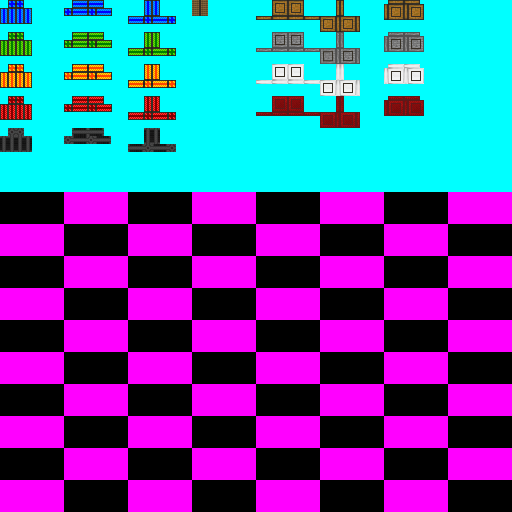
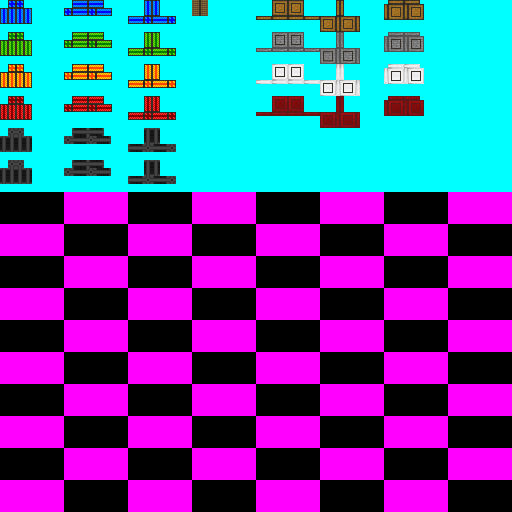
added special heat stage for creative engine

Changed region(s): [[0.25, 0.3125, 0.3438, 0.375], [0.0, 0.3125, 0.0625, 0.375], [0.125, 0.3125, 0.2188, 0.3438]]

diff --git a/src/dev/core/engine/abstract/BCEngineTileEntity.ts b/src/dev/core/engine/abstract/BCEngineTileEntity.ts
@@ -13,7 +13,7 @@ abstract class BCEngineTileEntity implements IHeatable, IEngine {
 
     protected progressPart: number = 0;
 
-    private isPumping: boolean = false; // Used for SMP synch // ?WTF is SMP
+    protected isPumping: boolean = false; // Used for SMP synch // ?WTF is SMP
     // How many ticks ago it gave out power, capped to 4.
     private lastTick: number = 0;
 
@@ -79,6 +79,7 @@ abstract class BCEngineTileEntity implements IHeatable, IEngine {
 
     // !TileEntity event
     public tick(){
+        Debug.m("tick");
         if (this.lastTick < 4) this.lastTick++;
 
         this.engineAnimation.update(this.data.progress, this.getEnergyStage());
@@ -101,7 +102,7 @@ abstract class BCEngineTileEntity implements IHeatable, IEngine {
 
         this.updateHeat();
 
-        if (this.getEnergyStage() === EngineHeat.BLACK){
+        if (this.getEnergyStage() === EngineHeat.OVERHEAT){
             this.data.energy = Math.max(this.data.energy - 50, 0);
             return;
         }
@@ -111,15 +112,20 @@ abstract class BCEngineTileEntity implements IHeatable, IEngine {
         const tile = this.getEnergyProvider(this.orientation);
 
         if (this.progressPart != 0) {
+            Debug.m(`part != 0`);
             this.data.progress += this.getPistonSpeed();
             if (this.data.progress > 0.5 && this.progressPart == 1) {
                 this.progressPart = 2;
+                Debug.m(`part to 2`);
             } else if (this.data.progress >= 1) {
                 this.data.progress = 0;
                 this.progressPart = 0;
+                Debug.m(`part to 0`);
             }
         } else if (this.isRedstonePowered && this.isActive()) {
+            Debug.m(`red powered`);
             if (this.isPoweredTile(tile, this.orientation)) {
+                Debug.m(`part to 1`);
                 this.progressPart = 1;
                 this.pumping = true;
                 if (this.getPowerToExtract() > 0) {
@@ -142,11 +148,12 @@ abstract class BCEngineTileEntity implements IHeatable, IEngine {
         } else if (this.isRedstonePowered && this.isActive()) {
             this.sendPower();
         }
+        Debug.m("end tick");
     }
 
     public click(id, count, data) {
         if(id != ItemID.bcWrench) return false;
-        if (this.getEnergyStage() == EngineHeat.BLACK) {
+        if (this.getEnergyStage() == EngineHeat.OVERHEAT) {
             this.energyStage = this.computeEnergyStage();
             // sendNetworkUpdate(); // ? again networking!
         }
@@ -257,12 +264,12 @@ abstract class BCEngineTileEntity implements IHeatable, IEngine {
 
     public getEnergyStage(): EngineHeat {
         // if (!worldObj.isRemote) { //? client-server
-            if (this.energyStage == EngineHeat.BLACK) return this.energyStage;
+            if (this.energyStage == EngineHeat.OVERHEAT) return this.energyStage;
 
             const newStage = this.computeEnergyStage();
             if (this.energyStage !== newStage) {
                 this.energyStage = newStage;
-                if (this.energyStage === EngineHeat.BLACK) this.overheat();
+                if (this.energyStage === EngineHeat.OVERHEAT) this.overheat();
                 // sendNetworkUpdate(); //? client-server
             }
         // }
@@ -270,7 +277,7 @@ abstract class BCEngineTileEntity implements IHeatable, IEngine {
     }
 
     public addEnergy(addition: number): void {
-        if (this.getEnergyStage() == EngineHeat.BLACK) return;
+        if (this.getEnergyStage() == EngineHeat.OVERHEAT) return;
 
         this.data.energy += addition;
         if (this.data.energy > this.getMaxEnergy()) {
@@ -289,7 +296,7 @@ abstract class BCEngineTileEntity implements IHeatable, IEngine {
         } else if (energyLevel < 1) {
             return EngineHeat.RED;
         }
-        return EngineHeat.BLACK;
+        return EngineHeat.OVERHEAT;
     }
 
     public getEnergyStored(): number {

diff --git a/src/dev/core/engine/creative/CreativeEngineTileEntity.ts b/src/dev/core/engine/creative/CreativeEngineTileEntity.ts
@@ -7,9 +7,11 @@ class BCCreativeEngineTileEntity extends BCEngineTileEntity {
         super(texture);
         this.defaultValues.powerMode = PowerMode.M2;
     }
+
     // !TileEntity event
     public init(){
         super.init();
+        Debug.m(Object.keys(this));
     }
 
     public click(id: number, count: number, data: number) {
@@ -20,11 +22,12 @@ class BCCreativeEngineTileEntity extends BCEngineTileEntity {
             Debug.m(`current mode ${this.data.powerMode}`);
             let currentModeIndex = PowerModeOrder.indexOf(this.data.powerMode);
             this.data.powerMode = PowerModeOrder[++currentModeIndex % PowerModeOrder.length];
-            Debug.m(`new mode ${this.data.powerMode}`);
+            Debug.m(`new mode ${this.data.powerMode} and speed ${this.getPistonSpeed()}`);
             return true;
         }
         this.engineAnimation.connectionSide = this.orientation = this.getConnectionSide(true);
         Debug.m("not sneaking");
+        Debug.m(`${this.data.progress}`);
         return false;
     }
 
@@ -36,7 +39,7 @@ class BCCreativeEngineTileEntity extends BCEngineTileEntity {
 
     public getPistonSpeed(): number {
        // return 0.02 * (powerMode.ordinal() + 1); // ORIGINAL
-       return 0.02 * (PowerModeOrder[this.data.powerMode] + 1); // Maybe shit...
+       return 0.02 * (PowerModeOrder.indexOf(this.data.powerMode) + 1); // Maybe shit...
     }
 
     public engineUpdate(): void {

diff --git a/src/dev/core/engine/EngineHeat.ts b/src/dev/core/engine/EngineHeat.ts
@@ -3,6 +3,7 @@ enum EngineHeat {
     GREEN = "GREEN",
     ORANGE = "ORANGE",
     RED = "RED",
+    OVERHEAT = "OVERHEAT",
     BLACK = "BLACK"
 }
 
